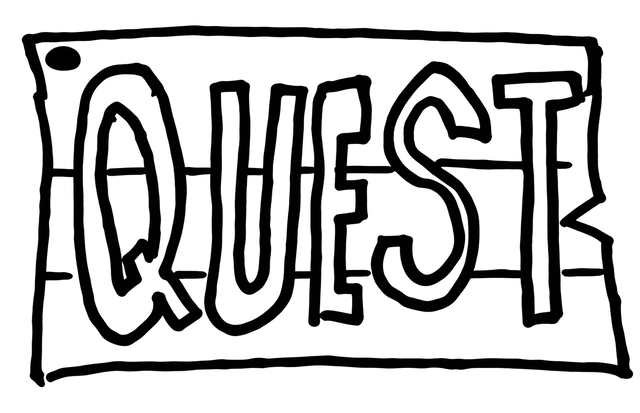
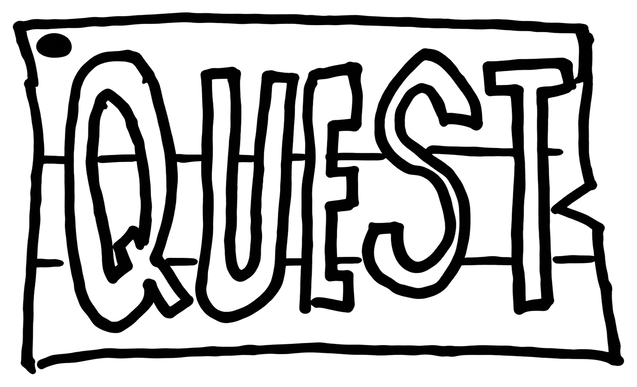
Remove boxed backgrounds from town button art

diff --git a/js/app.js b/js/app.js
@@ -13,7 +13,7 @@ import {TOWN_ART_ASSETS} from './town-art.js?v=town-service-signs-20261005a';
 const app=document.querySelector('#app'),modal=document.querySelector('#modal-root'),qa=new URLSearchParams(location.search).get('qa')==='1';
 let screen='title',message='The town has posted new notices. The hole remains open.',pendingPurchase=null,transactionFeedback='',mapExpanded=false,qaMusicOverride=undefined,qaPropVariation=0,qaShowPropZones=false,qaRoomOverlay='',abilitiesOpen=false,combatItemsOpen=false,pendingAchievementNotice='',creationDraft=null,storeMode='buy',questMode='',characterMode='gear',gearSlot=null,qaAttackReport=null,qaTownReport={},qaNameReport=null;
 const spriteCache=new Map();let combatPresentation={monsterId:null,startedAt:null,cacheResult:'none',decodeMs:null,renderCompleteMs:null},assetsPrepared=false;
-function townArtMarkup(slot,fallback,service=false){const assets=TOWN_ART_ASSETS[slot],style=state.settings?.spriteStyle==='ink'?'ink':'colored';if(assets)return `<span class="${service?'service-emblem town-service-art':'location-art location-art--illustration'}" aria-hidden="true"><img src="${assets[style]}" alt=""></span>`;return `<span class="${service?'service-emblem':'location-art'}" aria-hidden="true"><span>${fallback}</span></span>`}
+function townArtMarkup(slot,fallback,service=false){const assets=TOWN_ART_ASSETS[slot],style=state.settings?.spriteStyle==='ink'?'ink':'colored';if(assets)return `<span class="${service?'service-emblem town-service-art':'location-art location-art--illustration'}" aria-hidden="true"><img src="${assets[style]}?v=town-art-transparent-crop-20261005a" alt=""></span>`;return `<span class="${service?'service-emblem':'location-art'}" aria-hidden="true"><span>${fallback}</span></span>`}
 const MUSIC_PREFS_KEY='mirpworks-music-preferences',THREAT_PREF_KEY='mirpworks-enemy-threat-display',ACCESS_PREFS_KEY='mirpworks-accessibility-preferences';
 function musicPreferences(){return {musicEnabled:state.settings?.musicEnabled!==false,musicVolume:Number(state.settings?.musicVolume??.28),sfxEnabled:state.settings?.sfxEnabled!==false,sfxVolume:Number(state.settings?.sfxVolume??.8)}}
 function musicContext(){if(qaMusicOverride!==undefined)return qaMusicOverride;if(state.combat)return 'battle';if(['dungeon','event','npc','inventory'].includes(screen))return 'dungeon';return ({inn:'inn',store:'store',quests:'questBoard',statistics:'statistics',achievements:'achievements',character:'character'})[screen]||null}

diff --git a/css/mechanics.css b/css/mechanics.css
@@ -162,13 +162,13 @@
 
 /* The four signed destinations are themselves the primary Town controls. */
 .location--art-destination{min-width:0;min-height:132px;display:grid;grid-template-columns:minmax(0,1fr);grid-template-rows:68px auto auto;align-content:stretch;justify-items:stretch;gap:.18rem;padding:.5rem;text-align:center;border:1px solid #73694e;background:linear-gradient(145deg,#302f27,#202421);box-shadow:inset 0 1px #ffffff12,0 2px 7px #0004;transition:transform .12s ease,filter .12s ease,box-shadow .12s ease}
-.location--art-destination .location-art--illustration{grid-column:1;grid-row:1;width:100%;height:68px;min-width:0;max-width:none;border:1px solid #473e2d;border-radius:7px;background:#e8dfc9;box-shadow:inset 0 0 0 2px #fff3;overflow:hidden}
+.location--art-destination .location-art--illustration{grid-column:1;grid-row:1;width:100%;height:68px;min-width:0;max-width:none;padding:0;border:0;border-radius:0;background:transparent;box-shadow:none;overflow:visible}
 .location--art-destination .location-art--illustration img{width:100%;height:100%;object-fit:contain}
 .location--art-destination b,.location--art-destination small{grid-column:1;align-self:center;min-width:0;text-align:center}
 .location--art-destination b{font-size:.79rem;line-height:1.1;letter-spacing:.06em}
 .location--art-destination small{font-size:.66rem;line-height:1.15}
 .location--art-destination.location-hole{grid-column:1/-1;min-height:118px;grid-template-columns:minmax(0,1fr) minmax(110px,39%);grid-template-rows:auto auto;align-items:center;justify-items:stretch;gap:.15rem .55rem;padding:.5rem .65rem;text-align:left;background:radial-gradient(ellipse at 82% 110%,#9a6534 0,#44321e 43%,#252923 78%);border-color:#a17a48;box-shadow:inset 0 -12px 25px #090a0970,0 4px 12px #0005}
-.location--art-destination.location-hole .location-art--illustration{grid-column:2;grid-row:1/3;width:100%;height:98px;background:#e8dfc9;border-color:#6a5839}
+.location--art-destination.location-hole .location-art--illustration{grid-column:2;grid-row:1/3;width:100%;height:98px;background:transparent;border:0;box-shadow:none;overflow:visible}
 .location--art-destination.location-hole b,.location--art-destination.location-hole small{grid-column:1;text-align:left}
 .location--art-destination.location-hole b{font-size:1.08rem;letter-spacing:.085em}
 .location--art-destination.location-hole small{font-size:.74rem}

diff --git a/index.html b/index.html
@@ -13,11 +13,11 @@
   <link rel="apple-touch-icon" sizes="180x180" href="assets/icons/apple-touch-icon.png">
   <link rel="manifest" href="site.webmanifest">
   <link rel="stylesheet" href="css/styles.css?v=b500b51">
-  <link rel="stylesheet" href="css/mechanics.css?v=combat-room-presentation-20261005a">
+  <link rel="stylesheet" href="css/mechanics.css?v=town-art-correction-20261005a">
 </head>
 <body>
   <main id="app" aria-live="polite"></main>
   <div id="modal-root"></div>
-  <script type="module" src="js/app.js?v=ambient-audio-20261005a"></script>
+  <script type="module" src="js/app.js?v=town-art-correction-20261005a"></script>
 </body>
 </html>
